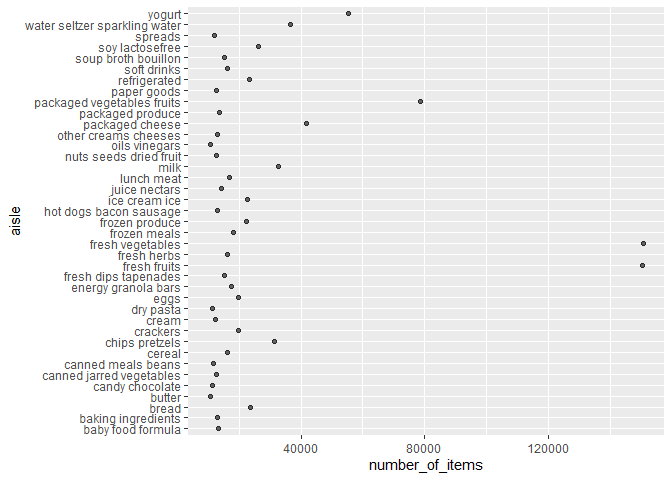
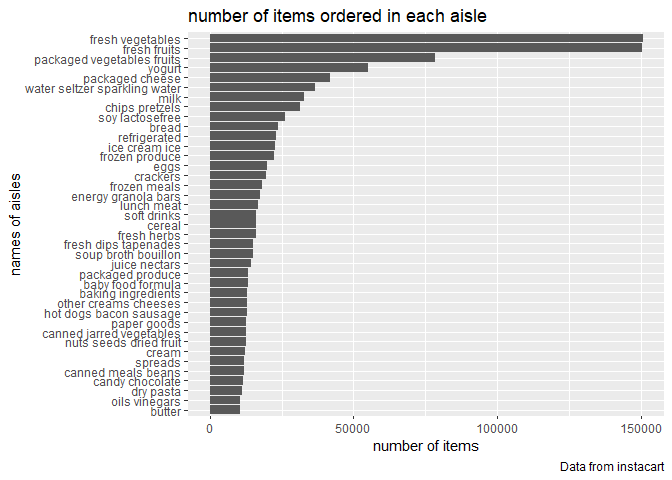
final version

diff --git a/p8105_hw3_xl2851.md b/p8105_hw3_xl2851.md
@@ -11,14 +11,14 @@ library(tidyr)
 library(tidyverse)
 ```
 
-    ## -- Attaching packages -------------------
+    ## -- Attaching packages ------------------------------------------ tidyverse 1.2.1 --
 
     ## v ggplot2 3.2.1     v purrr   0.3.2
     ## v tibble  2.1.3     v dplyr   0.8.3
     ## v readr   1.3.1     v stringr 1.4.0
     ## v ggplot2 3.2.1     v forcats 0.4.0
 
-    ## -- Conflicts --- tidyverse_conflicts() --
+    ## -- Conflicts --------------------------------------------- tidyverse_conflicts() --
     ## x dplyr::filter() masks stats::filter()
     ## x dplyr::lag()    masks stats::lag()
 
@@ -52,24 +52,23 @@ from.
 ## 1.2 Make a plot that shows the number of items ordered in each aisle, limiting this to aisles with more than 10000 items ordered.
 
 ``` r
-  aisle_count %>%
-  filter(number_of_items>10000)%>%
-  ggplot(aes(x=number_of_items, y=aisle))+
-  geom_point(alpha=0.6)
-```
-
-![](p8105_hw3_xl2851_files/figure-gfm/unnamed-chunk-3-1.png)<!-- -->
-
-``` r
-   labs(
-    title = "number of items ordered in each aisle",
+instacart %>% 
+  group_by(aisle) %>% 
+  summarize(n_aisle = n()) %>% 
+  arrange(desc(n_aisle)) %>% 
+  mutate(aisle = forcats::fct_reorder(aisle, n_aisle, .desc = FALSE)) %>% 
+  filter(n_aisle>=10000) %>% 
+      ggplot(aes(x = aisle, y = n_aisle)) +
+  geom_bar(stat = "identity") +
+  coord_flip() +
+  labs(title = "number of items ordered in each aisle",
     x = "names of aisles",
     y = "number of items",
     caption = "Data from instacart")+
 theme(axis.text.y = element_text(angle = 0, hjust = 1))
 ```
 
-    ## NULL
+![](p8105_hw3_xl2851_files/figure-gfm/unnamed-chunk-3-1.png)<!-- -->
 
 ## 1.3 Make a table showing the three most popular items in each of the aisles
 
@@ -998,24 +997,26 @@ locations.
 brfss_new =
   tidied_brfss %>% 
   filter(response == "Excellent") %>% 
-  group_by(year, location) %>% 
+  group_by(state, year) %>% 
   mutate(mean = mean(data_value, na.rm = FALSE)) %>%
-  select(year, location, mean) %>% 
+  select(year, state, mean) %>% 
   distinct() 
 ```
 
 ## Make a “spaghetti” plot
 
 ``` r
-ggplot(brfss_new, aes(x = year, y = mean, color = location, group = location))+
+brfss_new%>%
+ggplot(aes(x = year, y = mean, color = state)）+
   geom_line() +
-  theme(legend.position="none") +
-  xlab("Year") +
-  ylab("Mean value") +
-  ggtitle("The average value over time within a state")
+   labs(
+    title = "Average data value over time within a state across years(%)",
+    x = "Year",
+    y = "Average data value (%)"
+  ) 
 ```
 
-    ## Warning: Removed 5 rows containing missing values (geom_path).
+    ## Warning: Removed 3 rows containing missing values (geom_path).
 
 ![](p8105_hw3_xl2851_files/figure-gfm/unnamed-chunk-9-1.png)<!-- -->
 
